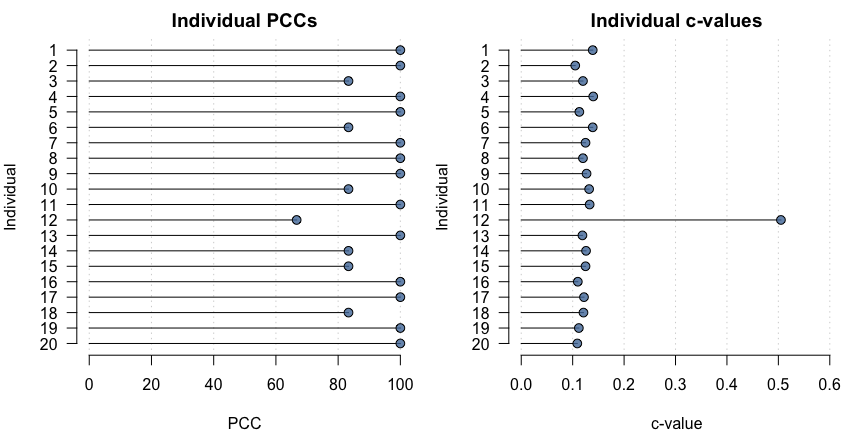
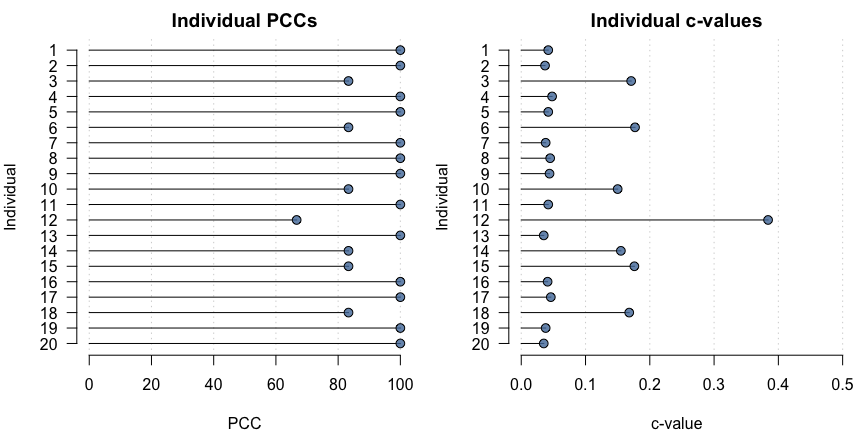
updated README

diff --git a/README.md b/README.md
@@ -165,26 +165,26 @@ summary(opamod)
 #> 
 #> Within subjects results:
 #>       PCC cval
-#> 1  100.00 0.14
-#> 2  100.00 0.10
-#> 3   83.33 0.12
-#> 4  100.00 0.14
-#> 5  100.00 0.11
-#> 6   83.33 0.14
-#> 7  100.00 0.12
-#> 8  100.00 0.12
-#> 9  100.00 0.13
-#> 10  83.33 0.13
-#> 11 100.00 0.13
-#> 12  66.67 0.50
-#> 13 100.00 0.12
-#> 14  83.33 0.13
-#> 15  83.33 0.12
-#> 16 100.00 0.11
-#> 17 100.00 0.12
-#> 18  83.33 0.12
-#> 19 100.00 0.11
-#> 20 100.00 0.11
+#> 1  100.00 0.04
+#> 2  100.00 0.04
+#> 3   83.33 0.17
+#> 4  100.00 0.05
+#> 5  100.00 0.04
+#> 6   83.33 0.18
+#> 7  100.00 0.04
+#> 8  100.00 0.04
+#> 9  100.00 0.04
+#> 10  83.33 0.15
+#> 11 100.00 0.04
+#> 12  66.67 0.38
+#> 13 100.00 0.04
+#> 14  83.33 0.16
+#> 15  83.33 0.18
+#> 16 100.00 0.04
+#> 17 100.00 0.05
+#> 18  83.33 0.17
+#> 19 100.00 0.04
+#> 20 100.00 0.04
 #> 
 #> PCCs were calculated for pairwise ordinal relationships using a difference threshold of 0.
 #> Chance-values were calculated from 1000 random orderings.
@@ -251,26 +251,26 @@ summary(opamod2, digits = 3)
 #> 
 #> Within subjects results:
 #>   Individual     PCC  cval
-#> A          1 100.000 0.128
-#> A          5 100.000 0.128
-#> A          9 100.000 0.123
-#> A         13 100.000 0.123
-#> A         17 100.000 0.124
-#> B          2 100.000 0.144
-#> B          6  83.333 0.142
-#> B         10  83.333 0.118
-#> B         14  83.333 0.140
-#> B         18  83.333 0.123
-#> C          3  83.333 0.120
-#> C          7 100.000 0.134
-#> C         11 100.000 0.113
-#> C         15  83.333 0.139
-#> C         19 100.000 0.126
-#> D          4 100.000 0.132
-#> D          8 100.000 0.138
-#> D         12  66.667 0.516
-#> D         16 100.000 0.141
-#> D         20 100.000 0.121
+#> A          1 100.000 0.034
+#> A          5 100.000 0.035
+#> A          9 100.000 0.045
+#> A         13 100.000 0.044
+#> A         17 100.000 0.047
+#> B          2 100.000 0.053
+#> B          6  83.333 0.191
+#> B         10  83.333 0.165
+#> B         14  83.333 0.166
+#> B         18  83.333 0.159
+#> C          3  83.333 0.185
+#> C          7 100.000 0.044
+#> C         11 100.000 0.043
+#> C         15  83.333 0.158
+#> C         19 100.000 0.050
+#> D          4 100.000 0.055
+#> D          8 100.000 0.047
+#> D         12  66.667 0.379
+#> D         16 100.000 0.050
+#> D         20 100.000 0.044
 #> 
 #> PCCs were calculated for pairwise ordinal relationships using a difference threshold of 0.
 #> Chance-values were calculated from 1000 random orderings.
@@ -305,7 +305,7 @@ Along with the c-value of the difference:
 
 ``` r
 group_comp$cval
-#> [1] 0.575
+#> [1] 0.43
 ```
 
 ## Acknowledgements
